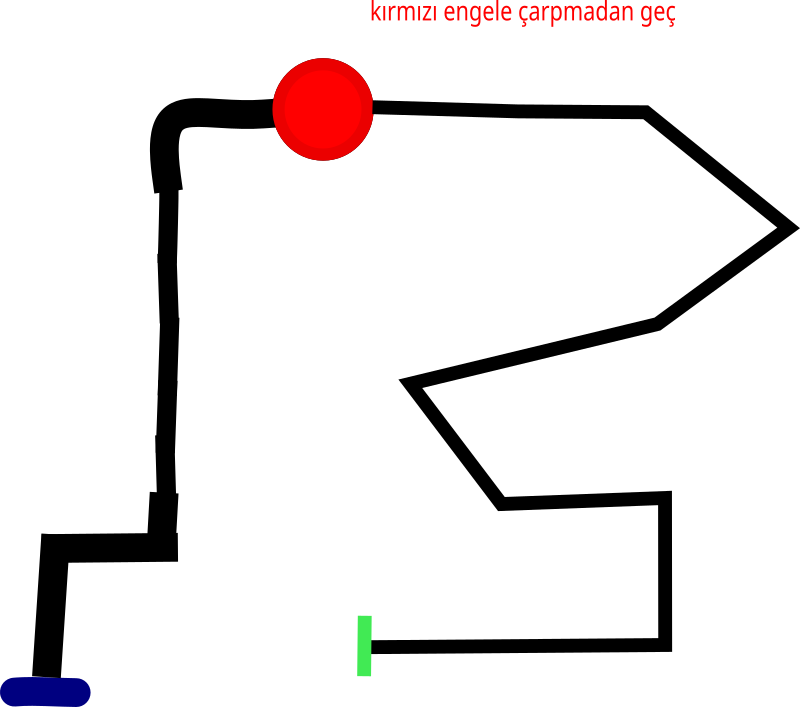
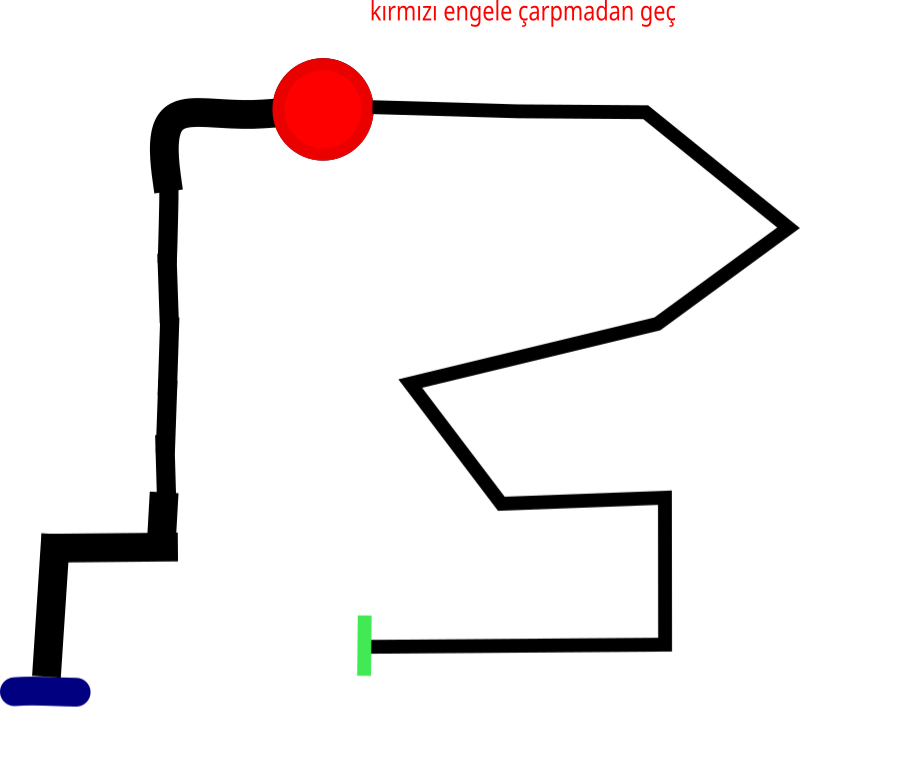
debug

Changed region(s): [[0.0, 0.0622, 1.0, 1.0], [0.4062, 0.0, 0.8438, 0.0311]]

diff --git a/main.py b/main.py
@@ -9,7 +9,7 @@ import time
 import math
 
 # Configuration
-WINDOW_WIDTH = 800
+WINDOW_WIDTH = 870
 WINDOW_HEIGHT = 750
 FPS = 60
 TRACK_FILE = 'track.png'
